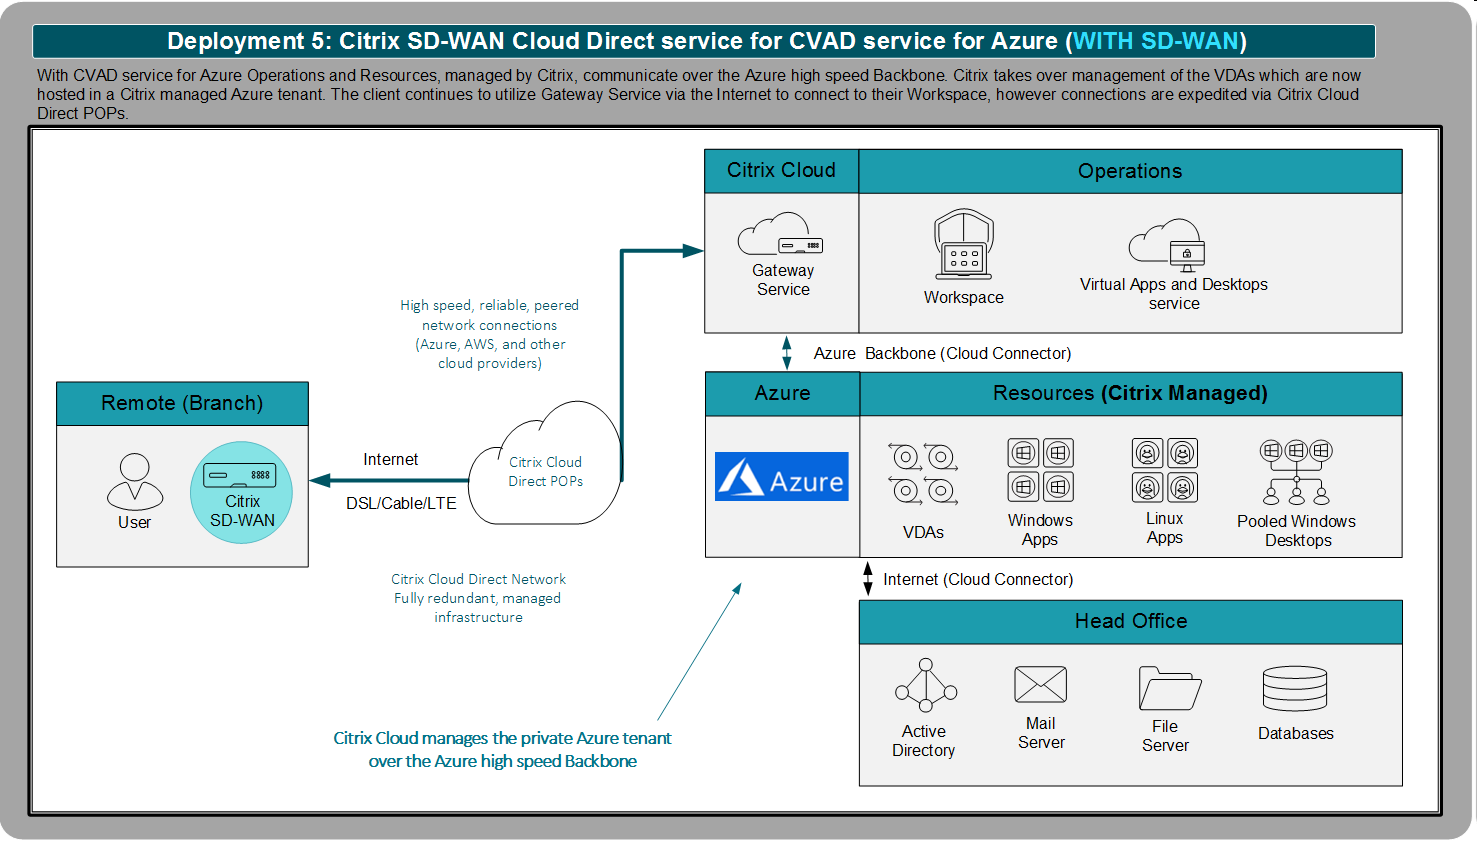
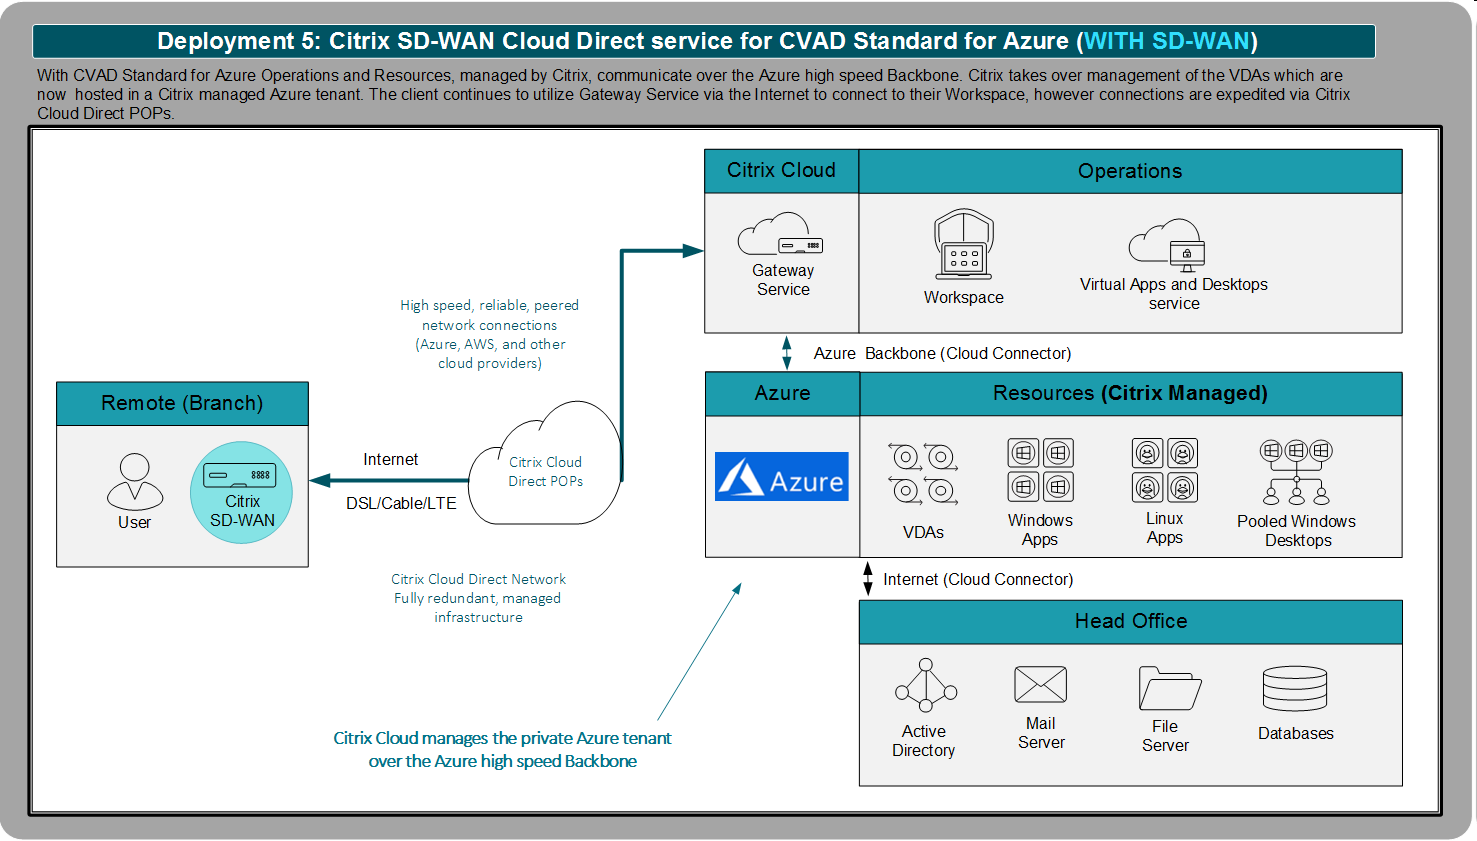
updates

Changed region(s): [[0.0311, 0.0309, 0.9343, 0.1546]]

diff --git a/en-us/tech-zone/learn/tech-briefs/sdwan-deployment-scenarios.md b/en-us/tech-zone/learn/tech-briefs/sdwan-deployment-scenarios.md
@@ -93,27 +93,21 @@ The second scenario in this deployment is the connectivity between branches, and
 
 ### Deployment 4: Citrix Virtual Apps and Desktops Standard for Azure
 
-Citrix Virtual Apps and Desktops Standard for Azure (DaaS offering) makes it easy to deliver secure Windows apps, and desktops from Azure. Both management operations and VDA resources run inside virtual machines on the Azure public cloud that Citrix owns, and manages. The following figure is a typical topology with connectivity from branch users.
+Citrix Virtual Apps and Desktops Standard for Azure (DaaS offering) makes it easy to deliver secure Windows apps, and desktops from Azure. Both management operation systems and VDA resources are hosted in Azure, and managed by Citrix. The following figure is a typical topology with connectivity from branch users.
 
 [![Scenarios 4 - Without SD-WAN](/en-us/tech-zone/learn/media/tech-briefs_sdwan-deployment-scenarios_scenarios4withoutsdwan.png)](/en-us/tech-zone/learn/media/tech-briefs_sdwan-deployment-scenarios_scenarios4withoutsdwan.png)
 
-SD-WAN technology is now integrated in the Citrix Virtual Apps and Desktops Standard for Azure to simplify network connectivity from your cloud-hosted desktops to both:
+SD-WAN technology is now integrated in the Citrix Virtual Apps and Desktops Standard for Azure to simplify network connectivity from your cloud-hosted desktops to On-premises resources such as Active Directory, and data sources.
 
-*  **On-premises resources** such as Active Directory, and data sources
-*  **Branch users** the integrated SD-WAN solution also significantly cuts down the network connectivity cost, and enhances the user experience. In addition, customers connecting to the Citrix Virtual Apps and Desktops Service for Azure can access the below services:
-*  **Connectivity to other important SaaS** applications
-*  **Data Centers** in different clouds
-*  **Use of cloud network** backbones
+For Branches the integrated SD-WAN solution significantly cuts down the network connectivity cost, and enhances the user experience. Clients connect to the Citrix Virtual Apps and Desktops Standard for Azure over a secure virtual path, via available links, with HDX session traffic prioritized by ICA class for optimal user experience.
 
 [![Scenarios 4 - With SD-WAN](/en-us/tech-zone/learn/media/tech-briefs_sdwan-deployment-scenarios_scenarios4withsdwan.png)](/en-us/tech-zone/learn/media/tech-briefs_sdwan-deployment-scenarios_scenarios4withsdwan.png)
 
 ### Deployment 5: Citrix SD-WAN Cloud Direct service for Citrix Virtual Apps and Desktops Standard for Azure and Citrix Virtual Apps and Desktops Service use cases
 
-SD-WAN Cloud Direct is a service that provides many of the benefits of SD-WAN virtual paths, without the need to install SD-WAN in the cloud. It is a good alternative for customers who are unable to manage their own virtual SD-WAN instances in the cloud. Cloud Direct supports connecting to virtual desktops in the cloud, including Citrix Virtual Apps and Desktops, Citrix Virtual Apps and Desktops Standard for Azure and Microsoft Windows Virtual Desktops. Complementing Cloud Direct, Citrix SD-WAN also supports connectivity from virtual apps to on-prem resources (For example databases, back-end servers).
+SD-WAN Cloud Direct is a service that provides many of the benefits of SD-WAN virtual paths, without the need to install SD-WAN in the cloud. It is a good alternative for customers who are unable to manage their own virtual SD-WAN instances in the cloud. Cloud Direct supports connecting to virtual apps and desktops in the cloud, including Citrix Virtual Apps and Desktops, Citrix Virtual Apps and Desktops Standard for Azure and Microsoft Windows Virtual Desktops. Complementing Cloud Direct, Citrix SD-WAN also supports connectivity from virtual apps and desktop host virtual machines to on-prem resources (For example databases, back-end servers).
 
-[![Scenarios 5 - Azure With SD-WAN](/en-us/tech-zone/learn/media/tech-briefs_sdwan-deployment-scenarios_scenarios5azurewithsdwan.png)](/en-us/tech-zone/learn/media/tech-briefs_sdwan-deployment-scenarios_scenarios5azurewithsdwan.png)
-
-Citrix has multiple Cloud Direct PoPs around the world that are peered with most public cloud, and SaaS providers. Customers providing access to SaaS applications, Citrix Virtual Apps and Desktops Standard for Azure / Citrix Virtual Apps and Desktops Service / Windows Virtual Desktops, and other cloud providers can use this service to improve application response times. It is especially valuable for organizations accessing applications hosted by third parties. Most cloud providers charge for data leaving the cloud. So, putting SD-WAN in the cloud can add extra cost to the customer. These network bandwidth charges can be avoided using the Cloud Direct service. Here are a few benefits using the Cloud Direct service:
+Citrix has multiple Cloud Direct PoPs around the world that are peered with most public cloud, and SaaS providers. Customers providing access to SaaS applications, Citrix Virtual Apps and Desktops Standard for Azure / Citrix Virtual Apps and Desktops Service / Windows Virtual Desktops, and other cloud providers can use this service to improve application response times. It is especially valuable for organizations accessing applications hosted by third parties. Most cloud providers charge for data leaving the cloud. So, putting SD-WAN in the cloud can add extra cost to the customer. These network bandwidth charges can be avoided using the Cloud Direct service. Here are additional benefits of using the Cloud Direct service:
 
 *  **Improved SaaS performance**: Cloud Direct service can identify your most critical application traffic, and ensure that it’s always prioritized
 *  **VoIP, and UCaaS protection**: Provide a consistent VoIP, and UCaaS connection regardless of outages, lag, packet loss or jitter
@@ -122,29 +116,34 @@ Citrix has multiple Cloud Direct PoPs around the world that are peered with most
 *  **Increased bandwidth**: Via link aggregation/smart load-balancing
 *  **Enterprise-grade QoS**: Bi-directional QoS/app classification
 *  **Extended visibility**: Benefit reporting beyond the edge
-Citrix Virtual Apps and Desktops Standard for Azure is another SaaS application. Here’s how the Cloud Direct service is used for connecting to virtual desktops.
+
+**Citrix Virtual Apps and Desktops Standard for Azure**, being hosted in the cloud, enjoys those same benefits as SaaS applications. Here’s how the Cloud Direct service is used for connecting to virtual desktops.
+
+[![Scenarios 5 - Azure With SD-WAN](/en-us/tech-zone/learn/media/tech-briefs_sdwan-deployment-scenarios_scenarios5azurewithsdwan.png)](/en-us/tech-zone/learn/media/tech-briefs_sdwan-deployment-scenarios_scenarios5azurewithsdwan.png)
+
+Getting better experience to **Citrix Virtual Apps and Desktops Service** through the Citrix Cloud service is no different. Customers can choose a SD-WAN book-ended solution for network connectivity between Head office, and Cloud DC.
 
 [![Scenarios 5 - Citrix Virtual Apps, and Desktops Service With SD-WAN](/en-us/tech-zone/learn/media/tech-briefs_sdwan-deployment-scenarios_scenarios5cvadswithsdwan.png)](/en-us/tech-zone/learn/media/tech-briefs_sdwan-deployment-scenarios_scenarios5cvadswithsdwan.png)
 
-Getting better experience to Citrix Virtual Apps and Desktops Service through the Citrix Cloud service is no different. Customers can choose a **SD-WAN book-ended solution** for network connectivity between Head office, and Cloud DC.
-
 #### Solution for Remote Worker
 
-In the wake of recent events, many remote users experiencing poor call, and video conferencing quality in their home offices. Accessing critical SaaS applications, including Unified Communications as a Service, and Citrix virtual applications, and desktops with quality performance, and experience is of the utmost importance. Most home users have a single broadband Internet connection. Citrix SD-WAN Cloud Direct solves some of the most common home networking challenges by using QoS to prioritize business apps. Citrix SD-WAN Cloud Direct has a built-in capability to identify, and prioritize traffic to Citrix Virtual Apps and Desktops Service for Azure and Citrix Virtual Apps and Desktops service. This enables it to significantly improve the user experience. Therefore, by implementing a Citrix SD-WAN appliance in their home office Enterprises can improve Remote Worker’s user experience. For more information see the Citrix SD-WAN Cloud Direct overview Tech Brief.
+In the wake of recent events, many remote users experiencing poor call, and video conferencing quality in their home offices. Accessing critical SaaS applications, including Unified Communications as a Service, and Citrix virtual applications, and desktops with quality performance, and experience is of the utmost importance. Most home users have a single broadband Internet connection. Citrix SD-WAN Cloud Direct solves some of the most common home networking challenges by using QoS to prioritize business apps. Citrix SD-WAN Cloud Direct has a built-in capability to identify, and prioritize traffic to Citrix Virtual Apps and Desktops Service for Azure and Citrix Virtual Apps and Desktops service. This enables it to significantly improve the user experience. Therefore, by implementing a Citrix SD-WAN appliance in their home office Enterprises can improve Remote Worker’s user experience.
+
+For more information see [Citrix SD-WAN Cloud Direct service overview](/en-us/tech-zone/learn/tech-briefs/sdwan-cloud-direct.html)
 
 ### Deployment 6: Citrix SD-WAN for Microsoft Azure Virtual WAN
 
-Citrix is one of the preferred Microsoft partners for connecting to Azure Virtual WAN. The Citrix SD-WAN has an integrated, and simplified deployment for connecting to Azure. If customers are already using Microsoft Azure Virtual WAN for connecting to their workload, Citrix SD-WAN can help optimize connectivity from the branches. It can provide resilient tunnels from the branch to Hubs in Azure Regions. Again, providing reliable connectivity without the need to install the SD-WAN in the cloud. Integration between Citrix SD-WAN and Azure Virtual WAN provides the following benefits:
+Citrix is one of the preferred Microsoft partners for connecting to Azure Virtual WAN. Citrix SD-WAN has an integrated, and simplified deployment for connecting to the Azure network. If customers are already using Microsoft Azure Virtual WAN for connecting to their workloads, Citrix SD-WAN can help optimize connectivity from the branches. It provides resilient tunnels from the branch to Hubs in Azure Regions. Again, providing reliable connectivity without the need to install the SD-WAN in the cloud. Integration between Citrix SD-WAN and Azure Virtual WAN provides the following benefits:
 
 *  **Deploy large-scale branch connectivity** between branch locations, and Azure
 *  **Automated provisioning**, and configuration
 *  **Scalability**, and high throughput
-*  **Leverage Microsoft’s global backbone network** in branch to hub (in all Azure regions) communication.
+*  **Leverage Microsoft’s global backbone network** for branch to hub (in all Azure regions) communication.
 *  **Active-Active redundant IPSec tunnels** for failover to Azure vWAN using BGP for faster convergence and scalable management of network prefix changes
 
 [![Scenarios 6 - With SD-WAN](/en-us/tech-zone/learn/media/tech-briefs_sdwan-deployment-scenarios_scenarios6withsdwan.png)](/en-us/tech-zone/learn/media/tech-briefs_sdwan-deployment-scenarios_scenarios6withsdwan.png)
 
 ## Summary
 
-Citrix Workspace customers have diverse network connectivity requirements due to diverse deployments. Citrix SD-WAN offers many connectivity options to meet your unique requirements. It provides simplified, secure, reliable connectivity to Citrix virtual applications and desktop with low cost. No matter how complex the deployments for Citrix Virtual Apps and Desktops service, Citrix Virtual Apps and Desktops Standard for Azure, and Citrix Virtual Apps and Desktops on-premises Citrix SD-WAN has a solution for your network connectivity needs.
+Citrix Workspace customers have diverse network connectivity requirements due to diverse deployment scenarios. Citrix SD-WAN offers many connectivity options to meet your unique requirements. It provides simplified, secure, reliable connectivity to Citrix virtual applications and desktop for low cost. No matter how complex the deployments for Citrix Virtual Apps and Desktops service, Citrix Virtual Apps and Desktops Standard for Azure, and Citrix Virtual Apps and Desktops on-premises Citrix SD-WAN has a solution for your network connectivity needs.
 Visit Citrix.com to learn more about the Citrix Workspace, and Citrix SD-WAN solutions.
